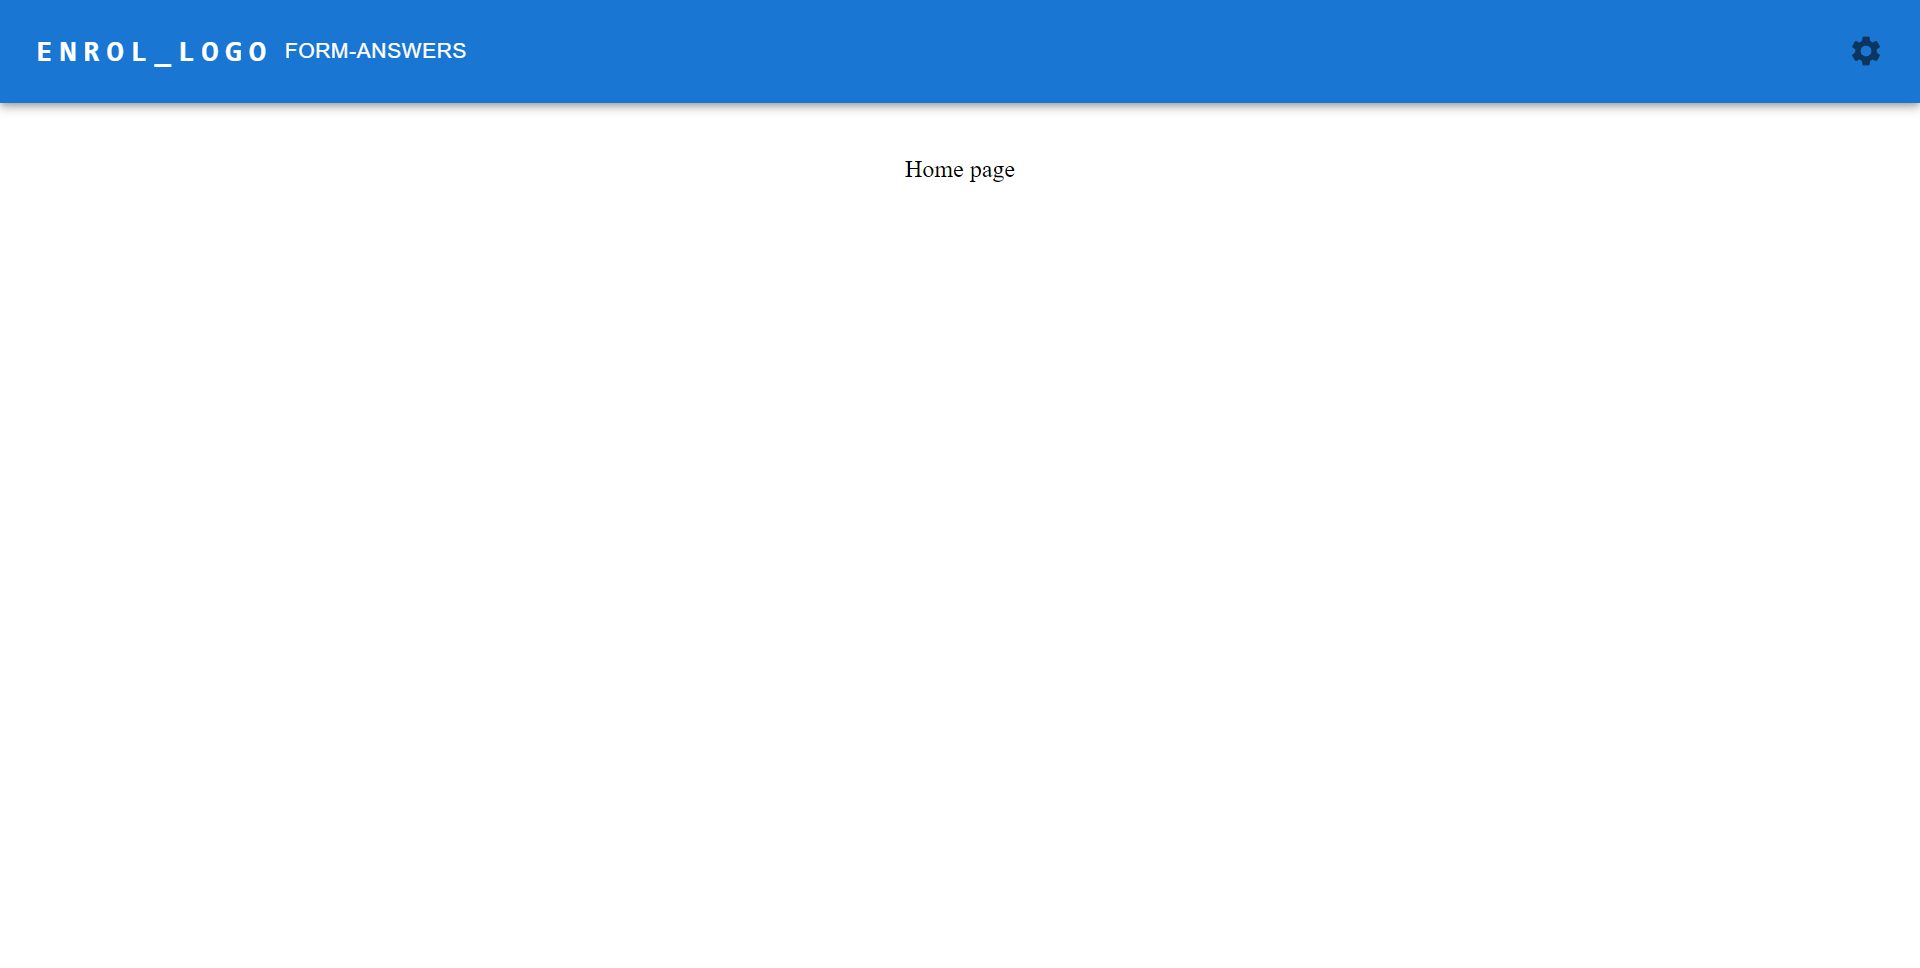
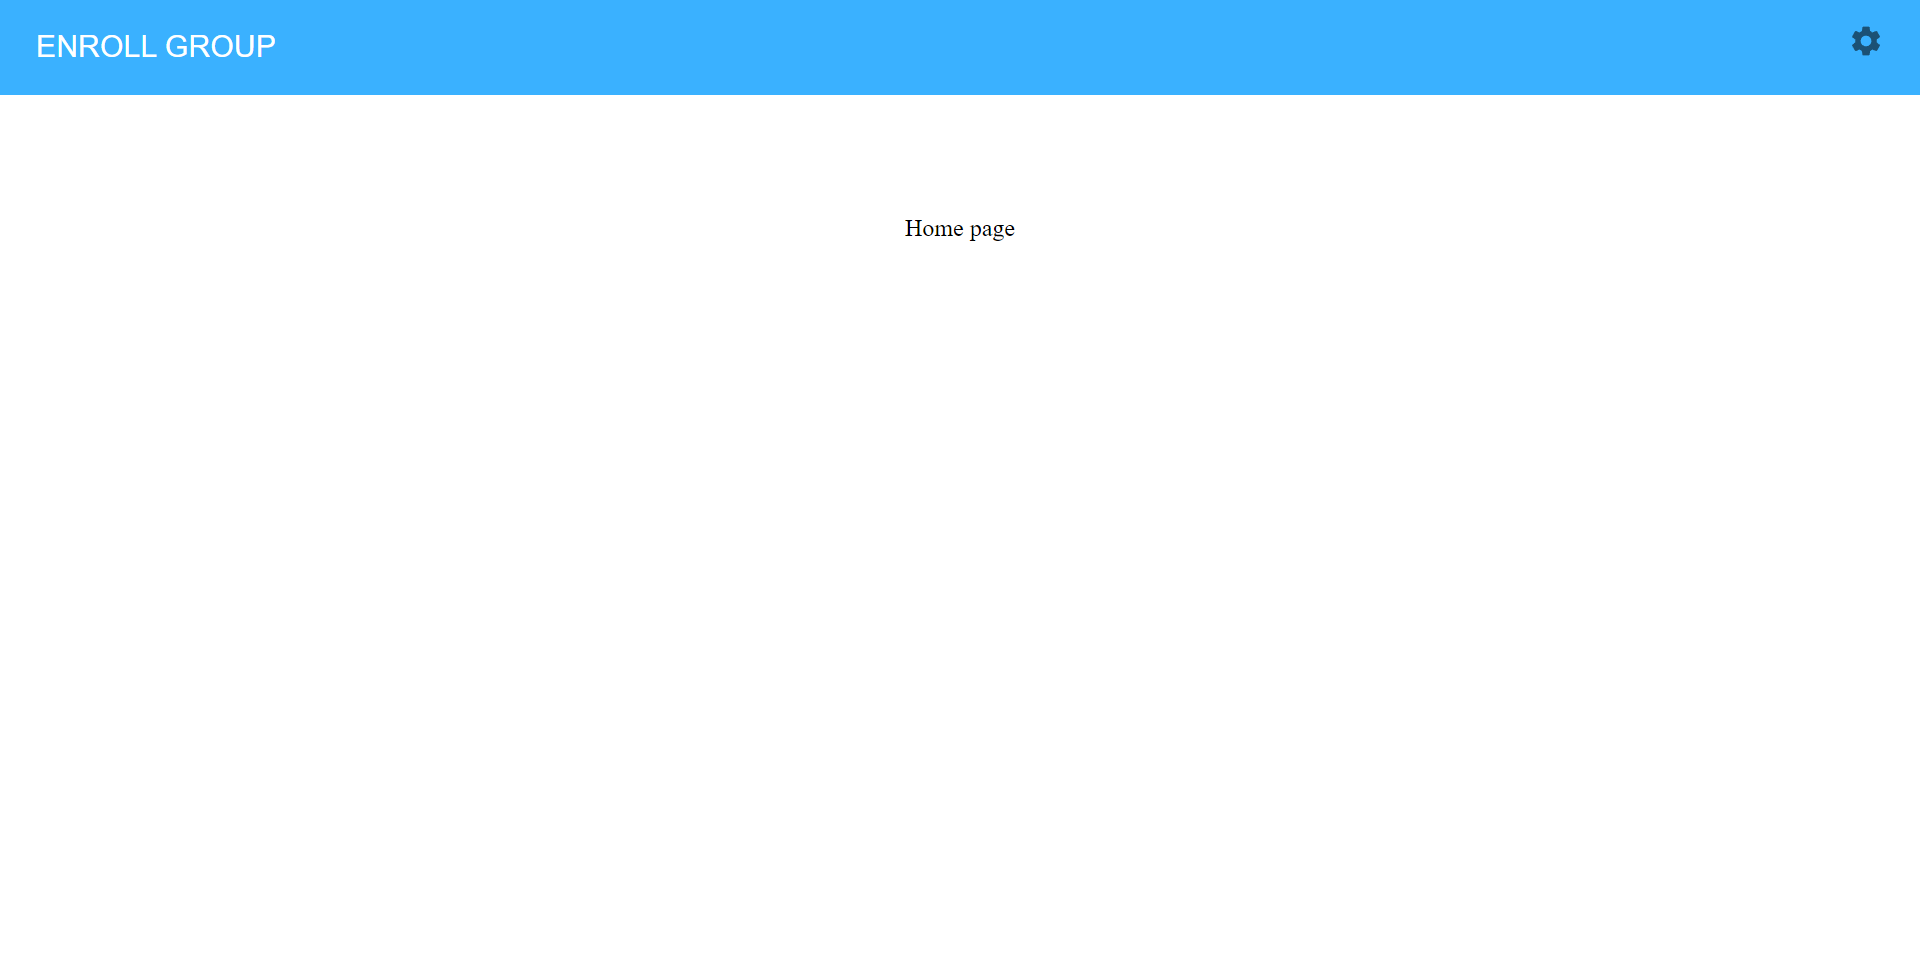
Updated readme and screenshots.

Changed region(s): [[0.0, 0.0, 1.0, 0.1242], [0.4688, 0.2174, 0.5312, 0.2484], [0.4688, 0.1553, 0.5312, 0.1863]]

diff --git a/README.md b/README.md
@@ -50,7 +50,7 @@ Po przesłaniu terminów generowany jest specjalny link do ankiety dla studentó
 
 ![LinkAnkiety](/readme_images/LinkAnkiety.png)
 
-W ankiecie znajdują się dwa formularze. Pierwszy odpowiada za dane studenta. Po jego przesłaniu w bazie tworzony jest wpis i do aplikacji klienta zwracane jest id studenta, wykorzystywane w kolejnym formularzu. Jest to istotny szczegół, poniważ wypełnienie ankiet w złej kolejności, bądź kilkukrotnie dla jednego studenta skutkuje błędami w bazie danych, które uniemożliwiają generowanie grup.
+W ankiecie znajdują się dwa formularze. Pierwszy odpowiada za dane studenta, natomiast drugi za jego głosy w ankiecie dostępności. Istnieje zabezpieczenie wymuszające wysyłanie obu formularzy w odpowiedniej kolejności oraz blokujące próby wielokrotnego wysłania jednego formularza z rzędu. Mimo to należy pamiętać, aby po wysłaniu pierwszego formularza wysłać także drugi. W przeciwnym przypadku do bazy dodawani są studenci, do których nie zostają dodane głosy, co uniemożliwia późniejsze generowanie grup.
 
 ![AnkietaZDanymi](/readme_images/AnkietaZDanymi.png)
 
@@ -73,7 +73,7 @@ W celu zapisania lokalnie wygenerowanych grup można je pobrać przyciskiem na d
 ### Algorytm
 Algorytm działa bardzo sprawnie. Dla 50 studentów z losowymi preferencjami i dostępnością na poziomie około 60% oraz generowaniem 3 grup zajęciowych spośród 10 możliwych terminów, przeciętnie 48/50 studentów jest zadowolonych. Przy większej dostępności studentów jest to zazwyczaj 50/50.
 
-Jeżeli wygenerowane grupy są niesatysfakcjonujące, ponowne naciśnięcie przycisku generującego zwraca nowy podział prawie natychmiast, więc można je "przerzucać" do osiągnięcia satysfakcji.
+Jeżeli wygenerowane grupy są niesatysfakcjonujące, ponowne naciśnięcie przycisku generującego zwraca nowy podział prawie natychmiast, więc można je "przerzucać" do osiągnięcia satysfakcjonującego wyniku.
 
 ### Postman
 Ponieważ formularze są wrażliwe na wypełnianie ich w złej kolejności, co grozi uniemożliwieniem generowania grup, do testowania dobrze działa Postman, do którego można wgrać przygotowaną kolekcję, znajdującą się w katalogu "postman".
@@ -83,6 +83,8 @@ Aby wygenerować grupy należy kolejno stworzyć możliwe grupy zajęciowe (meto
 ![Postman](/readme_images/Postman.png)
 
 ### Czego brakuje lub co można ulepszyć
-Poza problemami z przesyłaniem formularzy nie udało nam się wprowadzić wszystkich planowanych zabezpieczeń. Brakuje nam route guarda, przez co znając link do zakładek nauczyciela można się do nich dostać bez jego uprawnień.
+Pomimo różnych blokad przed niepoprawnym wysyłaniem formularzy, istnieje kilka słabych punktów w naszej aplikacji, które mogą skutecznie powstrzymać nauczyciela przed możliwością generowania grup. Dobrym pomysłem byłoby zarówno wprowadzenie większej liczby zabezpieczeń, jak i więcej opcji edycji zawartości bazy danych z poziomu aplikacji.
+
+Nie udało nam się wprowadzić wszystkich planowanych zabezpieczeń. Brakuje nam route guarda, przez co znając link do zakładek nauczyciela można się do nich dostać bez jego uprawnień.
 
 Dodatkowo, warto by rozwinąć działanie kont i sterowanie uprawnieniami. Nauczyciel mógłby mieć dostęp do szczegółów studentów, a studenci wgląd we wprowadzone przez nich dane/głosy i potencjalną możliwość ich edycji. Konta nie są też w żaden sposób weryfikowane, przez co istnieje możliwość podszywania się pod kogoś/tworzenia bliźniaczych kont i wysyłania głosów z danymi studenta o innym koncie.
